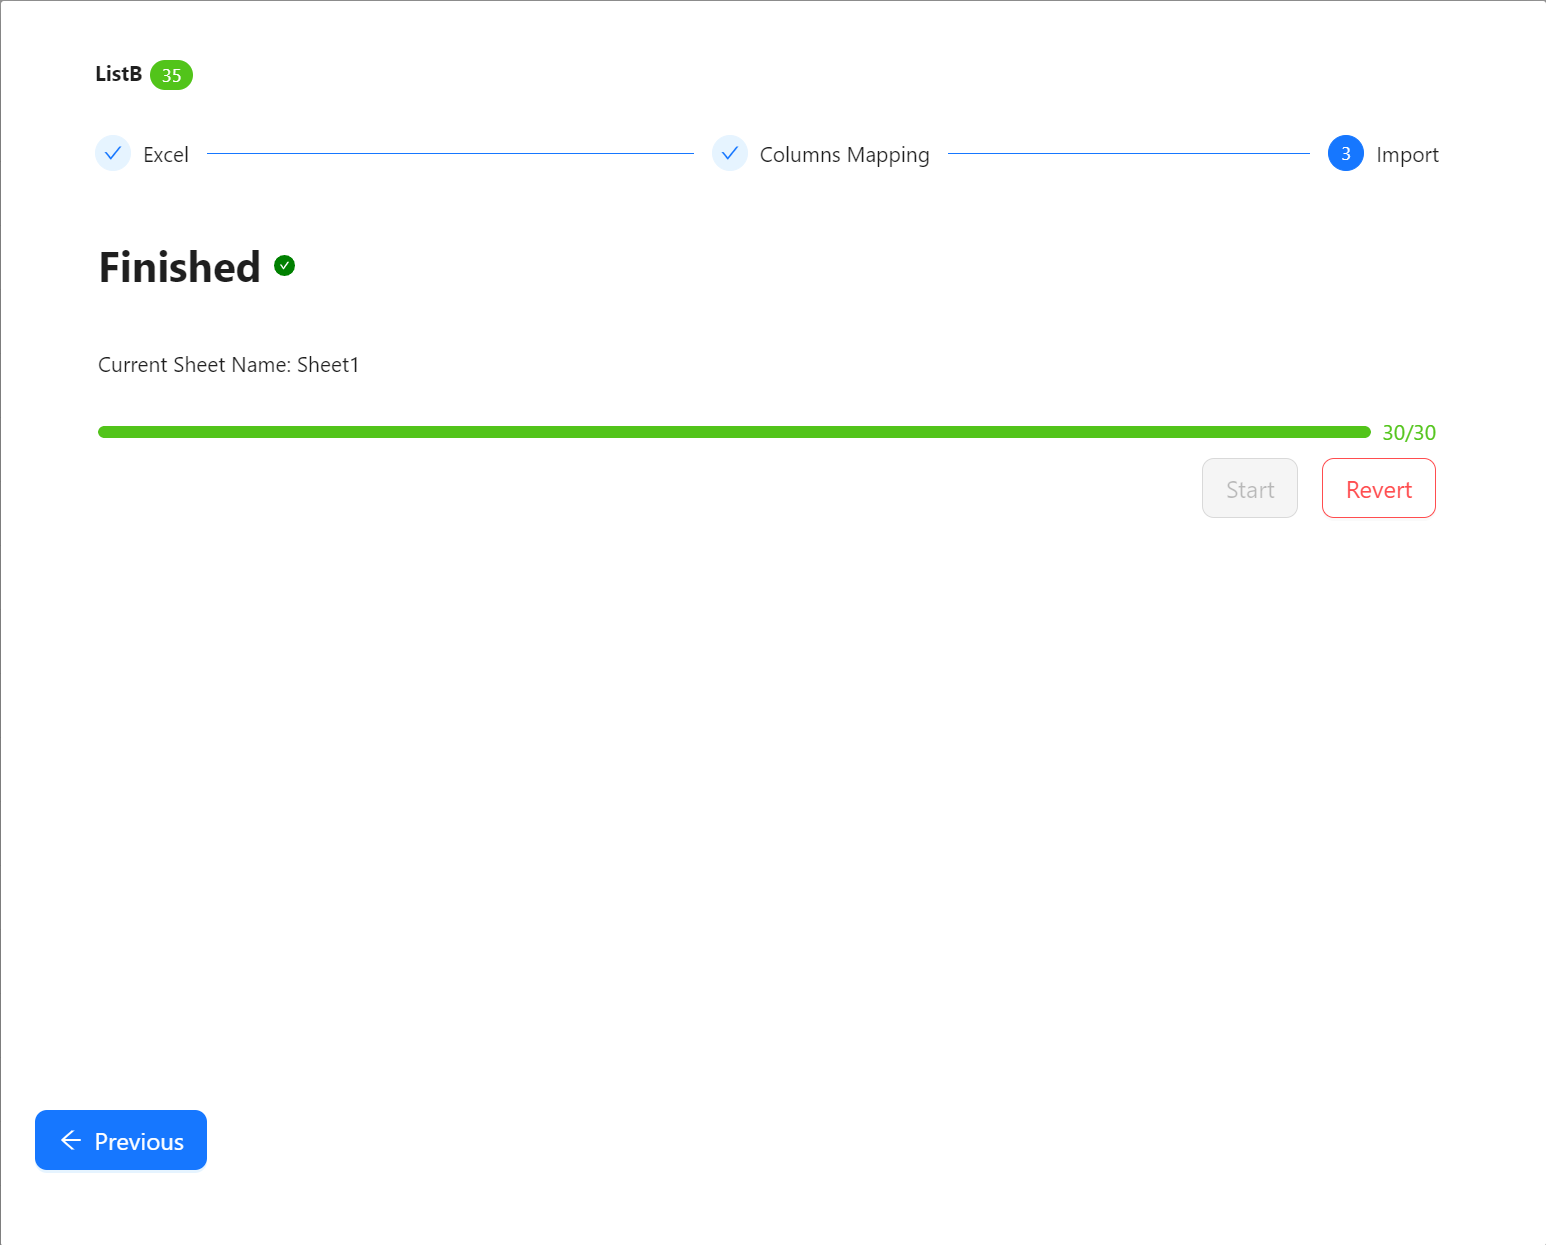
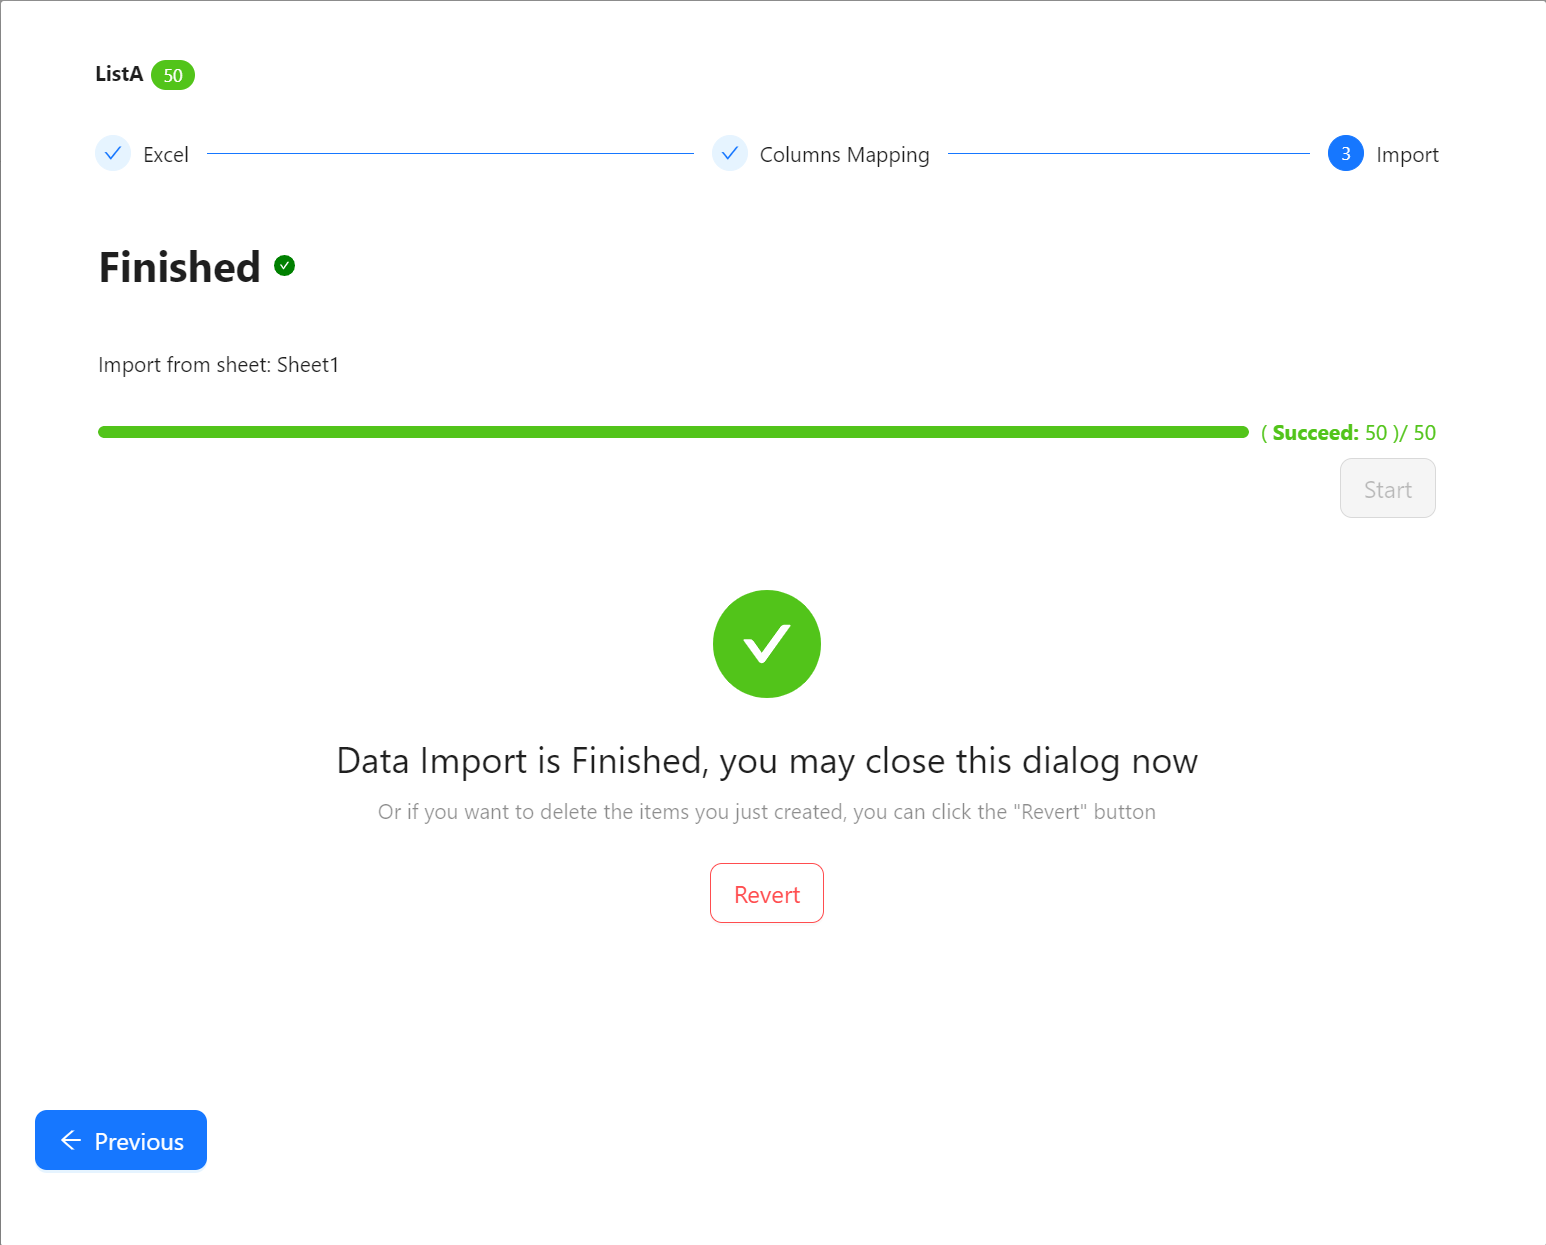
修改文字说明，更新data import的图片

diff --git a/sharepoint-excel-tool.html b/sharepoint-excel-tool.html
@@ -171,19 +171,16 @@ pageType: details_page
           </div>
         </div>
         <div class="col-xs-12 col-md-6">
-          <h3>Data Import and Revert</h3>
+          <h3>Data Import</h3>
           <div class="left_info">
             <ol>
               <li>
-                After all the configuration is set up, you may start importing. And during the process, the page is going to show you the failed rows. And if you hover your mouse on the failed item, you may see the error message explaining why it was failed.
-                The apperance of the failed ones does not stop the importing.
+                After all the configuration is set up, you may start importing.
               </li>
               <li>
-                And at the current moment, once the importing started, you have to wait until it is done. But after the importing is finished on all the items, you can "Revert" the new created items.
-                With this button, you can delete the items you just imported.
+                After the data import is finished, you can click on the area other than the dialog to go back to your SharePoint List.
               </li>
             </ol>
-
           </div>
         </div>
       </div>
